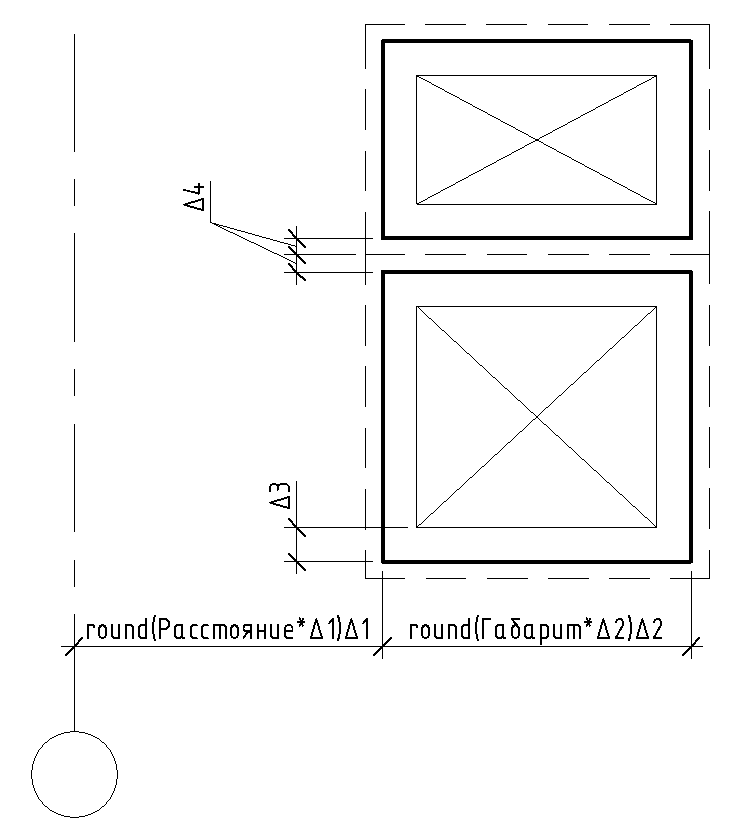
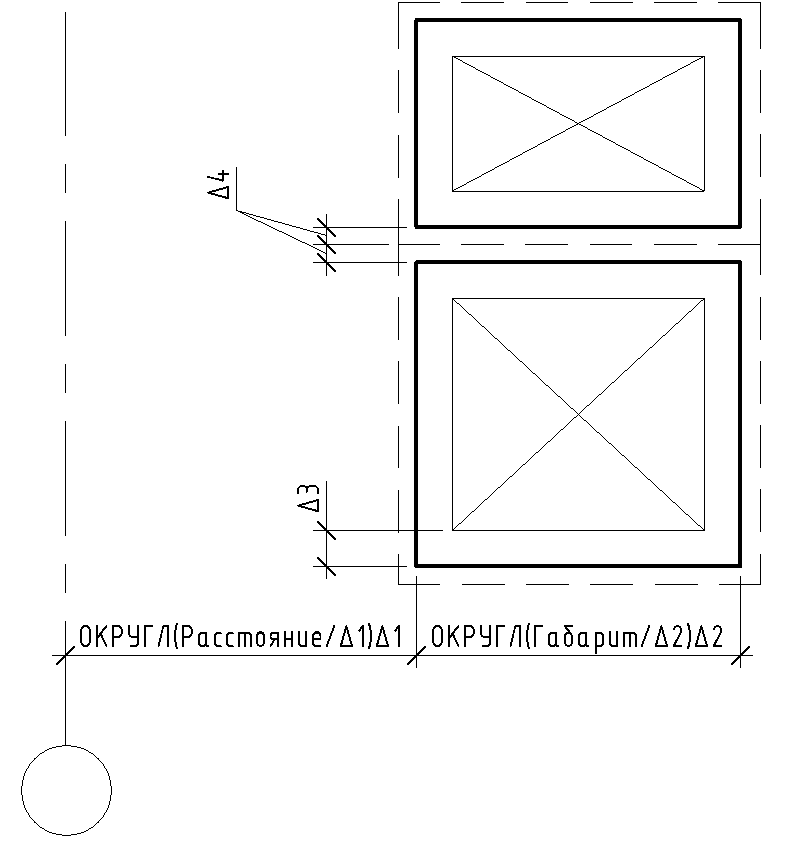
1.0.1.4 new feature can place holeTask in sercle round duct

diff --git a/Strana.Revit/ViewModel/HoleTaskView.xaml b/Strana.Revit/ViewModel/HoleTaskView.xaml
@@ -7,7 +7,7 @@
              xmlns:core="clr-namespace:Strana.Revit.HoleTask.ViewModel;assembly=Strana.Revit.HoleTask"
              d:DataContext="{d:DesignInstance Type=core:HoleTaskViewModel}"
              mc:Ignorable="d"
-              Title="{Binding Version, StringFormat='Задание на отверстия {0}                                              от t.me/NotaWhaie '}"
+              Title="{Binding Version, StringFormat='Задание на отверстия {0}                                              автор: t.me/NotaWhaie '}"
              Closing="Window_Closing"
              d:Height="550" Width="740" MaxHeight="600" MaxWidth="740"
 
@@ -29,20 +29,20 @@
             <ColumnDefinition Width="47*"/>
         </Grid.ColumnDefinitions>
         <Grid.RowDefinitions>
-            <RowDefinition Height="75*"/>
-            <RowDefinition Height="25*"/>
+            <RowDefinition Height="169*"/>
+            <RowDefinition Height="98*"/>
         </Grid.RowDefinitions>
         <Image 
             x:Name="image0" 
             Source="/Strana.Revit.HoleTask;component/Resources/holeTask.png" 
-            Grid.Row="0" Grid.Column="0" RenderOptions.BitmapScalingMode="Fant" HorizontalAlignment="Left"/>
+            Grid.Row="0" Grid.Column="0" RenderOptions.BitmapScalingMode="Fant" HorizontalAlignment="Left" Width="379"/>
         <Image 
             x:Name="image1" 
             Source="/Strana.Revit.HoleTask;component/Resources/holeTaskLegend.png" 
-            Grid.Row="1" Grid.Column="0" RenderOptions.BitmapScalingMode="Fant" HorizontalAlignment="Center"/>
+            Grid.Row="1" RenderOptions.BitmapScalingMode="Fant" HorizontalAlignment="Left" Margin="26,11,0,10" Width="240"/>
 
 
-        <Grid Grid.Row="0" Grid.Column="1" Grid.RowSpan="2" >
+        <Grid Grid.Row="0" Grid.RowSpan="2" Grid.ColumnSpan="2" Margin="392,0,0,0" >
             <Grid.RowDefinitions>
                 <!-- строка 0 -->
                 <RowDefinition/>

diff --git a/Strana.Revit/HoleTaskCreators/HoleTaskCreator.cs b/Strana.Revit/HoleTaskCreators/HoleTaskCreator.cs
@@ -88,26 +88,66 @@ namespace Strana.Revit.HoleTask.Utils
                 tipe = 2;
             }
 
-            double mepHeight;
-            double mepWidth;
-            double mepDiameter = mepElement.get_Parameter(BuiltInParameter.RBS_PIPE_OUTER_DIAMETER)?.AsDouble() ?? 0;
-            double mepHeightDucts = mepElement.get_Parameter(BuiltInParameter.RBS_CURVE_HEIGHT_PARAM)?.AsDouble() ?? 0;
 
-            if (mepDiameter > 0)
+            // Получаем категорию MEP элемента
+            Category mepCategory = mepElement.Category;
+            double mepHeight = 0;
+            double mepWidth = 0;
+
+            // Проверяем категорию элемента и выставляем соответствующие параметры
+            if (mepCategory.Id.IntegerValue == (int)BuiltInCategory.OST_PipeCurves)
             {
-                mepHeight = mepDiameter;
-                mepWidth = mepDiameter;
+                // Трубы
+                double mepDiameter = mepElement.get_Parameter(BuiltInParameter.RBS_PIPE_OUTER_DIAMETER)?.AsDouble() ?? 0;
+                if (mepDiameter > 0)
+                {
+                    mepHeight = mepDiameter;
+                    mepWidth = mepDiameter;
+                }
             }
-            else if (mepHeightDucts > 0)
+            else if (mepCategory.Id.IntegerValue == (int)BuiltInCategory.OST_DuctCurves)
             {
-                mepHeight = mepElement.get_Parameter(BuiltInParameter.RBS_CURVE_HEIGHT_PARAM)?.AsDouble() ?? 0;
-                mepWidth = mepElement.get_Parameter(BuiltInParameter.RBS_CURVE_WIDTH_PARAM)?.AsDouble() ?? 0;
+                // Воздуховоды
+                double mepDiameter = mepElement.get_Parameter(BuiltInParameter.RBS_CURVE_DIAMETER_PARAM)?.AsDouble() ?? 0;
+                if (mepDiameter > 0) // Если диаметр больше нуля, устанавливаем высоту и ширину равными диаметру
+                {
+                    mepHeight = mepDiameter;
+                    mepWidth = mepDiameter;
+                }
+                else // Иначе, берем высоту и ширину из других параметров
+                {
+                    mepHeight = mepElement.get_Parameter(BuiltInParameter.RBS_CURVE_HEIGHT_PARAM)?.AsDouble() ?? 0;
+                    mepWidth = mepElement.get_Parameter(BuiltInParameter.RBS_CURVE_WIDTH_PARAM)?.AsDouble() ?? 0;
+                }
             }
-            else
+            else if (mepCategory.Id.IntegerValue == (int)BuiltInCategory.OST_CableTray)
             {
+                // Кабельные лотки
                 mepHeight = mepElement.get_Parameter(BuiltInParameter.RBS_CABLETRAY_HEIGHT_PARAM)?.AsDouble() ?? 0;
                 mepWidth = mepElement.get_Parameter(BuiltInParameter.RBS_CABLETRAY_WIDTH_PARAM)?.AsDouble() ?? 0;
             }
+
+
+            //var mepCategory = mepElement.Category;
+            //double mepDiameter = mepElement.get_Parameter(BuiltInParameter.RBS_PIPE_OUTER_DIAMETER)?.AsDouble() ?? 0;
+            //double mepHeightDucts = mepElement.get_Parameter(BuiltInParameter.RBS_CURVE_HEIGHT_PARAM)?.AsDouble() ?? 0;
+
+
+            //if (mepDiameter > 0)
+            //{
+            //    mepHeight = mepDiameter;
+            //    mepWidth = mepDiameter;
+            //}
+            //else if (mepHeightDucts > 0)
+            //{
+            //    mepHeight = mepElement.get_Parameter(BuiltInParameter.RBS_CURVE_HEIGHT_PARAM)?.AsDouble() ?? 0;
+            //    mepWidth = mepElement.get_Parameter(BuiltInParameter.RBS_CURVE_WIDTH_PARAM)?.AsDouble() ?? 0;
+            //}
+            //else
+            //{
+            //    mepHeight = mepElement.get_Parameter(BuiltInParameter.RBS_CABLETRAY_HEIGHT_PARAM)?.AsDouble() ?? 0;
+            //    mepWidth = mepElement.get_Parameter(BuiltInParameter.RBS_CABLETRAY_WIDTH_PARAM)?.AsDouble() ?? 0;
+            //}
 
             FamilyInstance holeTask;
             IEnumerable<Level> docLvlList = this.GetDocumentLevels(this.doc);

diff --git a/Strana.Revit/Properties/AssemblyInfo.cs b/Strana.Revit/Properties/AssemblyInfo.cs
@@ -36,5 +36,5 @@ using System.Runtime.InteropServices;
 // Можно задать все значения или принять номера сборки и редакции по умолчанию
 // используя "*", как показано ниже:
 // [assembly: AssemblyVersion("1.0.*")]
-[assembly: AssemblyVersion("1.0.1.3")]
+[assembly: AssemblyVersion("1.0.1.4")]
 [assembly: AssemblyFileVersion("0.0.0.0")]
